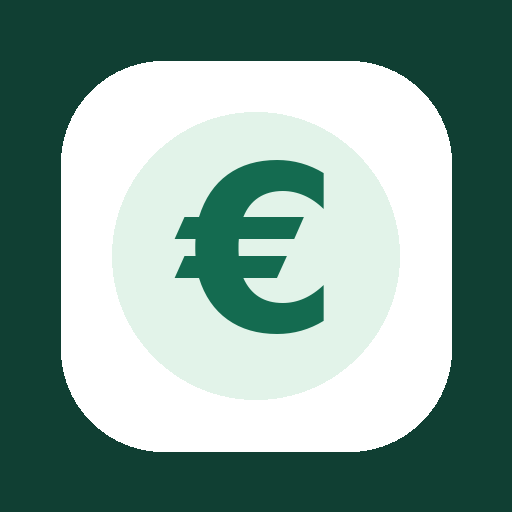
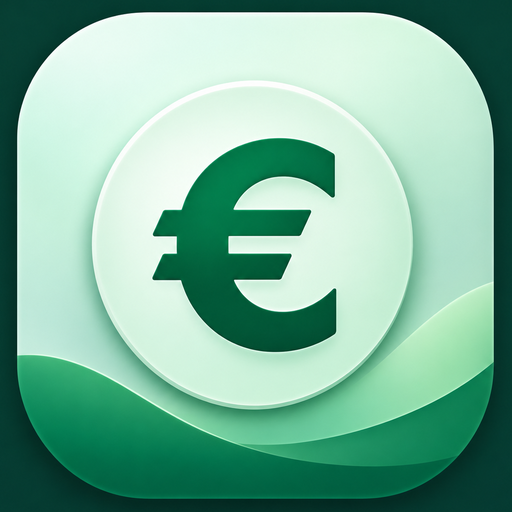
Add files via upload

diff --git a/sw.js b/sw.js
@@ -1,6 +1,6 @@
-/* Interfaz offline de Cada Euro v1.2. Los datos se mantienen en localStorage. */
-const VERSION='cada-euro-v1.2.0';
+/* Cada Euro · solo cambio de icono (v1.2.2). No modifica los datos. */
+const VERSION='cada-euro-v1.2.2-icono-3';
 const STATIC=['./','./index.html','./styles.css','./app.js','./manifest.webmanifest','./icon-192.png','./icon-512.png'];
 self.addEventListener('install',e=>{e.waitUntil(caches.open(VERSION).then(c=>c.addAll(STATIC)));self.skipWaiting()});
 self.addEventListener('activate',e=>{e.waitUntil(caches.keys().then(keys=>Promise.all(keys.filter(k=>k.startsWith('cada-euro-')&&k!==VERSION).map(k=>caches.delete(k)))));self.clients.claim()});
-self.addEventListener('fetch',e=>{if(e.request.method!=='GET'||new URL(e.request.url).origin!==self.location.origin)return;const path=new URL(e.request.url).pathname;if(path.endsWith('/app.js')||path.endsWith('/styles.css')||path.endsWith('/index.html')||path.endsWith('/')){e.respondWith(fetch(e.request).then(r=>{if(r.ok){let copy=r.clone();caches.open(VERSION).then(c=>c.put(e.request,copy))}return r}).catch(()=>caches.match(e.request,{ignoreSearch:true})));return}e.respondWith(caches.match(e.request,{ignoreSearch:true}).then(cached=>cached||fetch(e.request)))});
+self.addEventListener('fetch',e=>{if(e.request.method!=='GET'||new URL(e.request.url).origin!==self.location.origin)return;const path=new URL(e.request.url).pathname;if(path.endsWith('/app.js')||path.endsWith('/styles.css')||path.endsWith('/index.html')||path.endsWith('/')){e.respondWith(fetch(e.request).then(r=>{if(r.ok){let copy=r.clone();caches.open(VERSION).then(c=>c.put(e.request,copy))}return r}).catch(()=>caches.match(e.request,{ignoreSearch:true})));return}e.respondWith(caches.match(e.request,{ignoreSearch:true}).then(cached=>cached||fetch(e.request))) });
